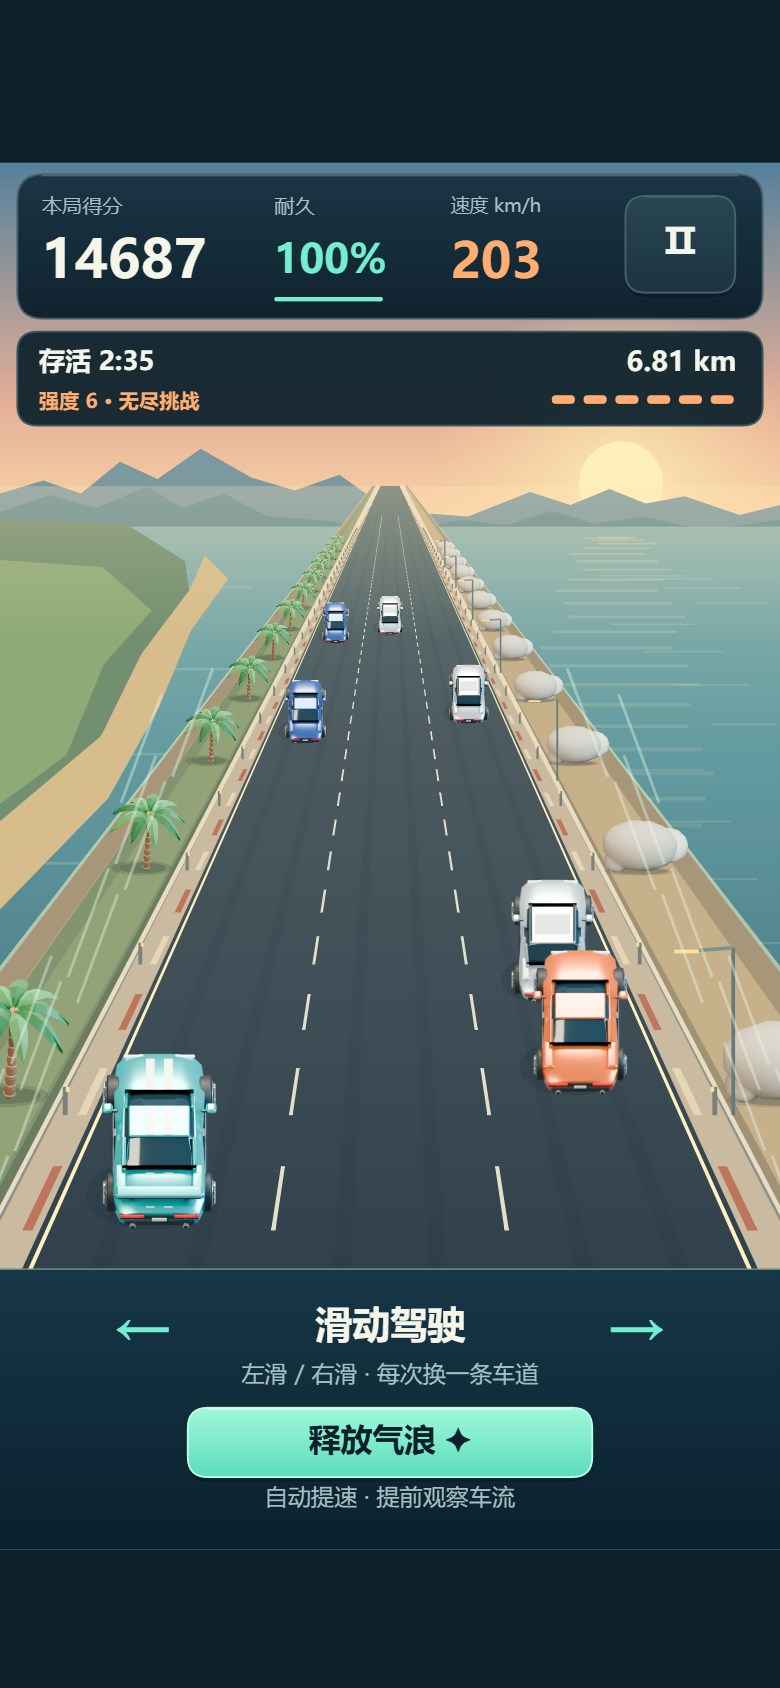
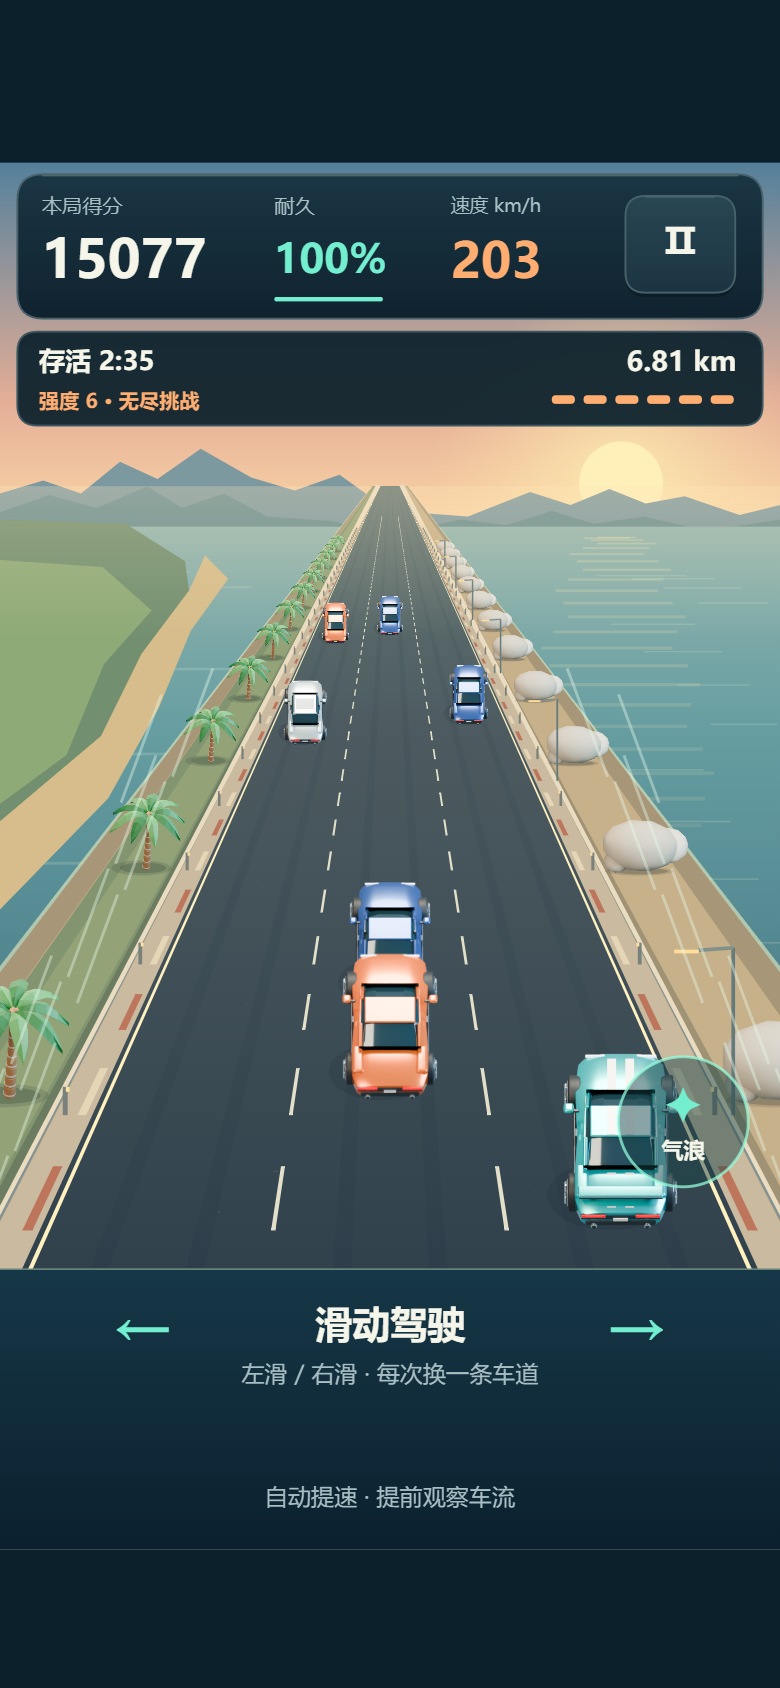
Float translucent circular pulse skill on right side

diff --git a/公路之王/src/game-app.js b/公路之王/src/game-app.js
@@ -60,7 +60,7 @@ class RoadKingApp {
   }
   setKeyboardHolds(throttle){this.keyboard={throttle};this.updateHolds();}
   point(t){return{x:((t.clientX==null?t.x:t.clientX)-this.ox)/this.scale,y:((t.clientY==null?t.y:t.clientY)-this.oy)/this.scale};}
-  inside(p,b){return p.x>=b.x&&p.x<=b.x+b.w&&p.y>=b.y&&p.y<=b.y+b.h;}
+  inside(p,b){if(b.circle)return Math.hypot(p.x-b.x-b.w/2,p.y-b.y-b.h/2)<=b.w/2;return p.x>=b.x&&p.x<=b.x+b.w&&p.y>=b.y&&p.y<=b.y+b.h;}
   touchStart(e){
     (e.changedTouches||e.touches||[]).forEach(t=>{
       const pt=this.point(t),b=this.buttons.slice().reverse().find(b=>!b.disabled&&this.inside(pt,b)),id=t.identifier==null?0:t.identifier;
@@ -226,7 +226,13 @@ class RoadKingApp {
     if(playing&&g.elapsed<7){this.rr(111,276,318,42,12,'rgba(10,27,38,.88)');this.txt('← 左右滑动，连续闪避 →',270,297,18,C.white,'bold','center');}
     const controls=c.createLinearGradient(0,766,0,H);controls.addColorStop(0,'#163747');controls.addColorStop(1,'#0b202e');c.fillStyle=controls;c.fillRect(0,766,W,194);this.line(0,766,W,766,'#769082');
     this.txt('←',99,814,39,C.cyan,'bold','center');this.txt('滑动驾驶',270,807,26,C.white,'bold','center');this.txt('→',441,814,39,C.cyan,'bold','center');this.txt('左滑 / 右滑 · 每次换一条车道',270,840,16,C.mute,'normal','center');
-    this.button(130,862,280,48,g.pulseCooldown>0?'气浪冷却 '+Math.ceil(g.pulseCooldown)+'s':'释放气浪 ✦',()=>g.pulse(),{key:'气浪技能',disabled:!playing||g.pulseCooldown>0,primary:true,size:22});
+    if(playing){
+      const x=473,y=664,r=45,cooling=g.pulseCooldown>0;
+      c.save();c.beginPath();c.arc(x,y,r,0,Math.PI*2);c.fillStyle=cooling?'rgba(20,43,53,.42)':'rgba(24,65,68,.48)';c.fill();c.strokeStyle=cooling?'rgba(205,232,224,.32)':'rgba(151,255,221,.72)';c.lineWidth=2;c.stroke();
+      if(cooling){c.beginPath();c.arc(x,y,r-4,-Math.PI/2,-Math.PI/2+Math.PI*2*(1-g.pulseCooldown/10));c.strokeStyle='rgba(115,239,208,.65)';c.lineWidth=3;c.stroke();}
+      this.txt(cooling?Math.ceil(g.pulseCooldown)+'s':'✦',x,y-9,cooling?23:30,cooling?C.white:C.cyan,'bold','center');this.txt('气浪',x,y+21,15,C.white,'bold','center');c.restore();
+      this.buttons.push({x:x-r,y:y-r,w:r*2,h:r*2,circle:true,key:'气浪技能',disabled:cooling,action:()=>g.pulse()});
+    }
     this.txt('自动提速 · 提前观察车流',270,925,16,C.mute,'normal','center');
   }
   scrim(){this.ctx.fillStyle='rgba(3,12,19,.83)';this.ctx.fillRect(0,0,W,H);this.buttons=[];}

diff --git a/tests/game-app.test.js b/tests/game-app.test.js
@@ -11,6 +11,6 @@ function fixture(){
 test('tap and small diagonal motion do not change lanes',()=>{const {a,swipe}=fixture();swipe(10,10);swipe(60,60);assert.equal(a.game.lane,0);assert.equal(a.game.pulseCooldown,0);});
 test('long swipe changes one lane; subsequent swipe can queue next lane',()=>{const {a,event,swipe}=fixture();a.touchStart(event(270,540));a.touchMove(event(180,540));a.touchMove(event(60,540));assert.equal(a.game.lane,-1);a.touchEnd(event(60,540));swipe(100,0);swipe(100,0);a.update(.5);assert.equal(a.game.lane,1);});
 test('down swipe does not change speed or lane',()=>{const {a,swipe}=fixture();const speed=a.game.speed;swipe(0,60,850);assert.equal(a.game.speed,speed);assert.equal(a.game.lane,0);assert.equal(a.game.pulseCooldown,0);assert.equal(a.game.setBrake,undefined);});
-test('up swipe does not release pulse; skill touch activates it once',()=>{const {a,event,swipe}=fixture();swipe(0,-80);assert.equal(a.game.pulseCooldown,0);a.draw=()=>{};a.buttons=[{x:130,y:862,w:280,h:48,key:'气浪技能',action:()=>a.game.pulse()}];a.touchStart(event(270,884));a.touchEnd(event(270,884));assert.equal(a.game.pulseCooldown,10);a.update(.1);a.touchStart(event(270,884));assert.ok(a.game.pulseCooldown<10);});
+test('up swipe does not release pulse; skill touch activates it once',()=>{const {a,event,swipe}=fixture();swipe(0,-80);assert.equal(a.game.pulseCooldown,0);a.draw=()=>{};a.buttons=[{x:428,y:619,w:90,h:90,circle:true,key:'气浪技能',action:()=>a.game.pulse()}];assert.equal(a.inside({x:429,y:620},a.buttons[0]),false);assert.equal(a.inside({x:473,y:664},a.buttons[0]),true);a.touchStart(event(473,664));a.touchEnd(event(473,664));assert.equal(a.game.pulseCooldown,10);a.update(.1);a.touchStart(event(473,664));assert.ok(a.game.pulseCooldown<10);});
 test('secondary fingers do not issue gestures and cancel clears gestures',()=>{const {a,p,event}=fixture();a.touchStart(event(270,540,1));a.touchStart(event(270,540,2));a.touchMove(event(370,540,2));assert.equal(a.game.lane,0);a.touchMove(event(270,640,1));p.handlers[3]();assert.deepEqual(a.touchMap,{});});
 test('background clears queued lane before pausing',()=>{const {a,p,swipe}=fixture();swipe(0,80);p.life[0]();assert.equal(a.game.mode,'paused');assert.equal(a.queuedLane,null);a.update(2);assert.equal(a.game.elapsed,0);});

diff --git a/docs/endless-mode.md b/docs/endless-mode.md
@@ -25,7 +25,7 @@
 
 ## 应急资源
 
-手机驾驶采用滑动操作：左右滑动每次换一条车道，点击气浪技能释放气浪。公路和底部提示区均可滑动，气浪通过底部技能按钮释放。气浪保留范围与冷却，推开近前车辆；固定路障仍需避让。普通换道始终是主要操作。
+手机驾驶采用滑动操作：左右滑动每次换一条车道，点击气浪技能释放气浪。公路和底部提示区均可滑动，气浪通过右侧半透明圆形技能按钮释放。气浪保留范围与冷却，推开近前车辆；固定路障仍需避让。普通换道始终是主要操作。
 
 ## 界面与纪录
 

diff --git a/公路之王/README.md b/公路之王/README.md
@@ -14,7 +14,7 @@
 | --- | --- | --- |
 | 左右换道 | 左右滑动，每次换一条车道 | A / D 或 ← / → |
 | 加速 | 自动巡航持续提速，无需按键 | W / ↑ 可额外加速 |
-| 气浪解围 | 点击气浪技能按钮，推开近前车辆 | F |
+| 气浪解围 | 点击右侧半透明圆形气浪按钮，推开近前车辆 | F |
 | 暂停/继续 | 右上角暂停按钮 | Esc |
 | 开始/再挑战 | 首页或结算页主按钮 | Enter |
 | 立即重开 | 暂停页重新开始 | R |
